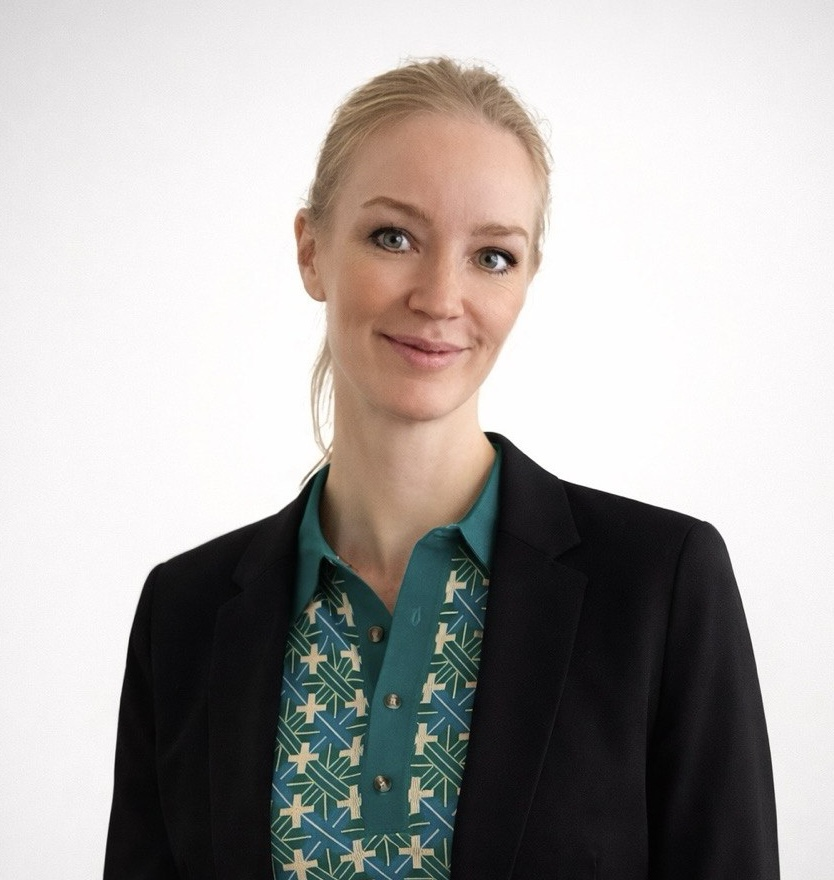
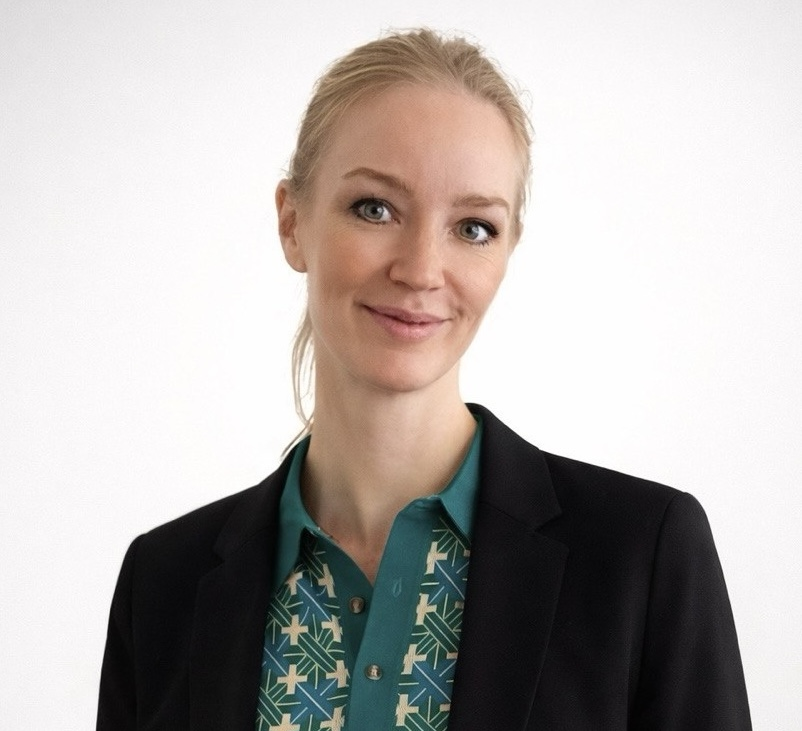
add rental schema and page

diff --git a/sanity/schemas/rental.js b/sanity/schemas/rental.js
@@ -1,0 +1,106 @@
+import { defineType, defineField } from 'sanity'
+
+export default defineType({
+  name: 'rental',
+  title: 'Rental',
+  type: 'document',
+  fields: [
+    defineField({
+      name: 'title',
+      title: 'Title',
+      type: 'string',
+      validation: (Rule) => Rule.required(),
+    }),
+    defineField({
+      name: 'slug',
+      title: 'Slug',
+      type: 'slug',
+      options: {
+        source: 'title',
+        maxLength: 96,
+      },
+      validation: (Rule) => Rule.required(),
+    }),
+    defineField({
+      name: 'location',
+      title: 'Location',
+      type: 'string',
+    }),
+    defineField({
+      name: 'pricePerMonth',
+      title: 'Price per month',
+      type: 'number',
+      validation: (Rule) => Rule.min(0),
+    }),
+    defineField({
+      name: 'bedrooms',
+      title: 'Bedrooms',
+      type: 'number',
+      validation: (Rule) => Rule.min(0).integer(),
+    }),
+    defineField({
+      name: 'bathrooms',
+      title: 'Bathrooms',
+      type: 'number',
+      validation: (Rule) => Rule.min(0).integer(),
+    }),
+    defineField({
+      name: 'sqm',
+      title: 'Area (m²)',
+      type: 'number',
+      validation: (Rule) => Rule.min(0),
+    }),
+    defineField({
+      name: 'availableFrom',
+      title: 'Available from',
+      type: 'date',
+    }),
+    defineField({
+      name: 'minimumStay',
+      title: 'Minimum stay',
+      type: 'string',
+      description: 'e.g. "1 month", "3 months", "6 months"',
+    }),
+    defineField({
+      name: 'furnished',
+      title: 'Furnished',
+      type: 'boolean',
+      initialValue: false,
+    }),
+    defineField({
+      name: 'description',
+      title: 'Description',
+      type: 'text',
+      rows: 5,
+    }),
+    defineField({
+      name: 'images',
+      title: 'Images',
+      type: 'array',
+      of: [
+        {
+          type: 'image',
+          options: {
+            hotspot: true,
+          },
+        },
+      ],
+    }),
+    defineField({
+      name: 'featured',
+      title: 'Featured',
+      type: 'boolean',
+      initialValue: false,
+    }),
+  ],
+  preview: {
+    select: { title: 'title', location: 'location', pricePerMonth: 'pricePerMonth' },
+    prepare({ title, location, pricePerMonth }) {
+      const sub = [location, pricePerMonth != null ? `€${pricePerMonth}/mo` : null].filter(Boolean).join(' · ')
+      return {
+        title: title || 'Untitled rental',
+        subtitle: sub || undefined,
+      }
+    },
+  },
+})

diff --git a/rentals.html b/rentals.html
@@ -130,14 +130,14 @@
     const query = encodeURIComponent(`*[_type == "rental"] | order(_createdAt desc) {
       _id,
       title,
-      price,
+      pricePerMonth,
       location,
       bedrooms,
       bathrooms,
-      sizeSqm,
+      sqm,
       description,
       featured,
-      "imageUrl": coalesce(mainImage.asset->url, image.asset->url, images[0].asset->url)
+      "imageUrl": images[0].asset->url
     }`);
 
     const endpoint = `https://7ic15vv6.api.sanity.io/v2021-10-21/data/query/production?query=${query}`;
@@ -161,20 +161,20 @@
           const imgUrl = hasImage
             ? `${r.imageUrl}?w=900&h=600&fit=crop&auto=format`
             : '';
-          const priceText = typeof r.price === 'number'
-            ? `€${r.price.toLocaleString('en-US')} / month`
-            : (r.price || 'Price on application');
+          const priceText = typeof r.pricePerMonth === 'number'
+            ? `€${r.pricePerMonth.toLocaleString('en-US')} / month`
+            : (r.pricePerMonth || 'Price on application');
 
           const metaParts = [];
           if (r.location) metaParts.push(r.location);
           if (r.bedrooms) metaParts.push(`${r.bedrooms} bed${r.bedrooms > 1 ? 's' : ''}`);
           if (r.bathrooms) metaParts.push(`${r.bathrooms} bath${r.bathrooms > 1 ? 's' : ''}`);
-          if (r.sizeSqm) metaParts.push(`${r.sizeSqm} m²`);
+          if (r.sqm) metaParts.push(`${r.sqm} m²`);
           const metaLine = metaParts.join(' · ');
 
           const pills = [];
           if (r.featured) pills.push('Featured');
-          if (r.sizeSqm) pills.push(`${r.sizeSqm} m²`);
+          if (r.sqm) pills.push(`${r.sqm} m²`);
 
           return `
             <div class="card">

diff --git a/about.html b/about.html
@@ -444,6 +444,10 @@
     background: var(--bg-accent);
     display: block;
   }
+  .team-member:first-child .team-member__photo {
+    object-position: center 35%;
+    transform: scale(1.45);
+  }
   .team-member__name {
     font-family: var(--font-display);
     font-size: 1.3rem;

diff --git a/sanity/schemas/index.js b/sanity/schemas/index.js
@@ -1,0 +1,3 @@
+import rental from './rental'
+
+export const schemaTypes = [rental]
